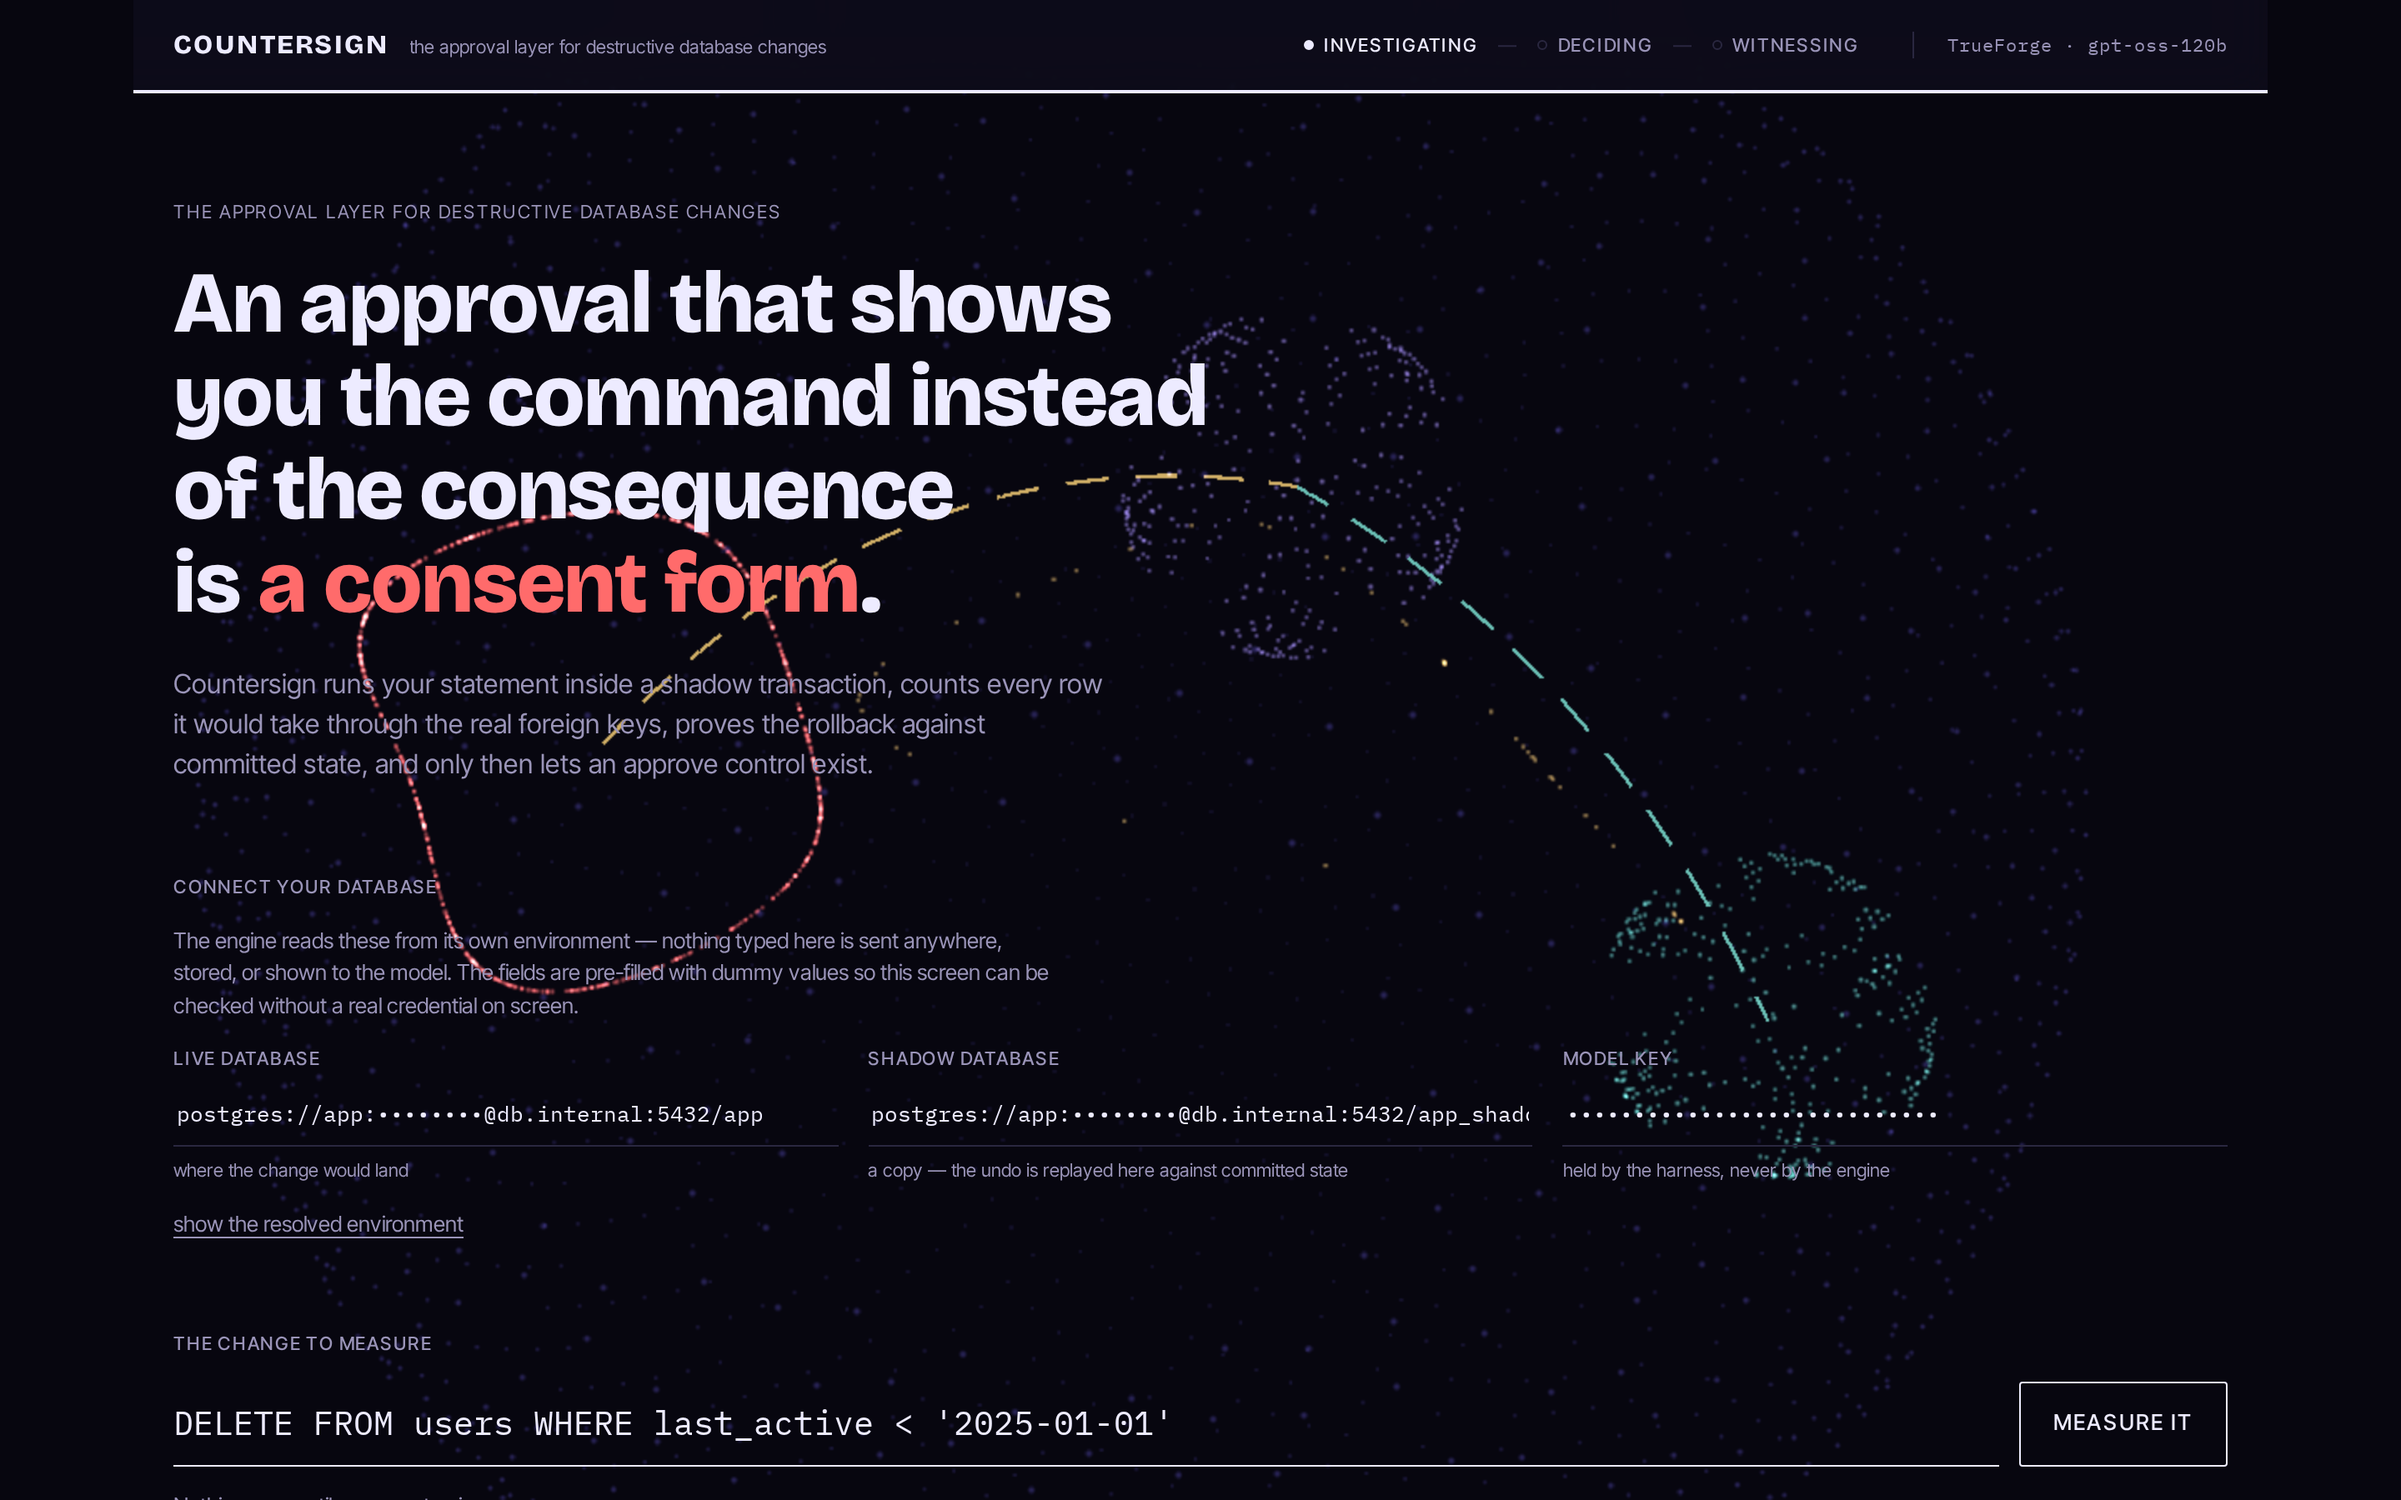
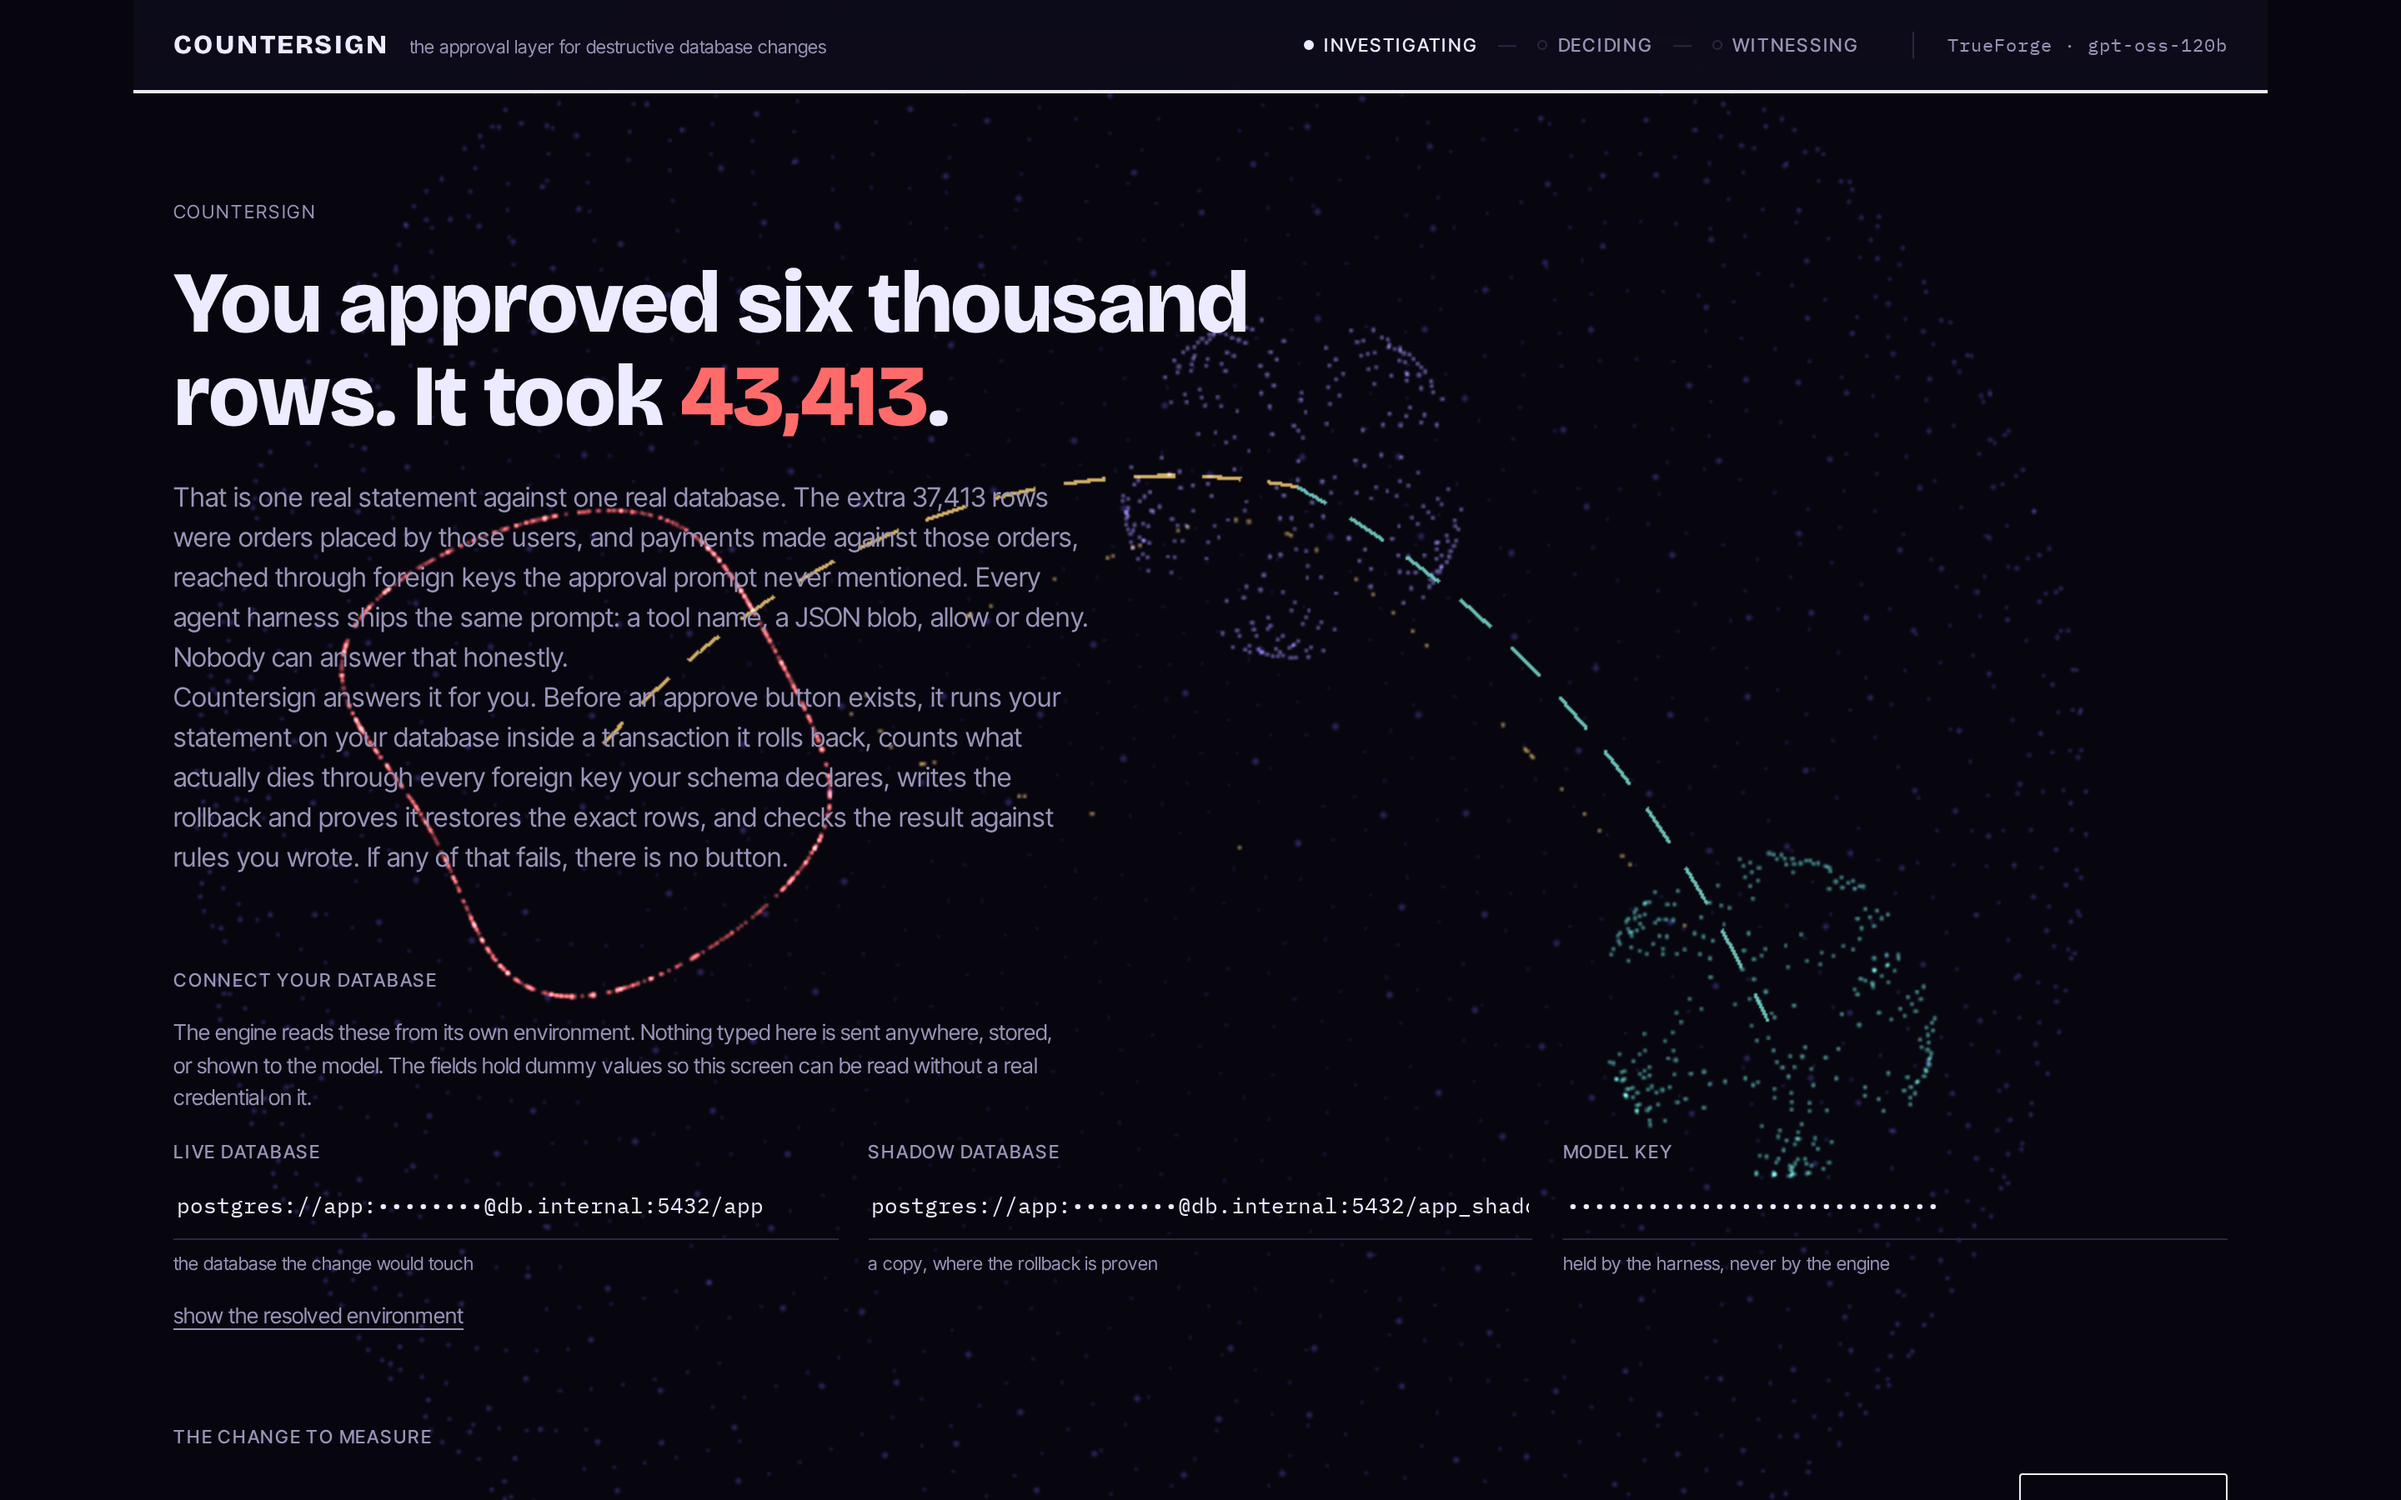
Say what it does with numbers, and drop the dashes
The description was abstract where it should have been specific. It named
mechanisms without ever showing what they cost: "counts every row it would
take" is a claim about a capability, not a fact anyone can weigh.

It now opens on the measured case. You approved six thousand rows and it took
43,413; the extra 37,413 were orders placed by those users and payments made
against those orders, reached through foreign keys the approval prompt never
mentioned. Those are the recorded numbers, not an illustration. The four
claims underneath follow the same rule: twelve of six thousand rows failing to
return, a two minute signature, a WHERE clause that matches a new row while
you read.

Every em dash is gone from the rendered copy, checked against the DOM rather
than the source.

Also removes Ledger and Preconditions, which the section replaced and nothing
imported, and the stray root logs.

diff --git a/console/src/shell/Landing.tsx b/console/src/shell/Landing.tsx
@@ -33,44 +33,51 @@ export function Landing({ onEnter, demo = false }: Props) {
     <main className="landing">
       {demo && (
         <p className="demo-banner">
-          <b>Demo.</b> This deployment replays a recorded run of the real agent — the same
-          event stream through the same reducer, holding at the approval TrueForge actually
-          raised. It is not connected to a database. To run it against your own, see the
-          repository.
+          <b>Demo.</b> This deployment replays a recorded run of the real agent: the same event
+          stream, through the same code, holding at the approval the harness actually raised. It is
+          not connected to a database. To run it against yours, see the repository.
         </p>
       )}
       <section className="landing-claim">
-        <p className="landing-eyebrow">The approval layer for destructive database changes</p>
+        <p className="landing-eyebrow">Countersign</p>
         <h1>
-          An approval that shows you the command instead of the consequence
-          is <em>a consent form</em>.
+          You approved six thousand rows.
+          It took <em>43,413</em>.
         </h1>
         <p className="landing-stand">
-          Countersign runs your statement inside a shadow transaction, counts every row it would
-          take through the real foreign keys, proves the rollback against committed state, and only
-          then lets an approve control exist.
+          That is one real statement against one real database. The extra 37,413 rows were orders
+          placed by those users, and payments made against those orders, reached through foreign
+          keys the approval prompt never mentioned. Every agent harness ships the same prompt: a
+          tool name, a JSON blob, allow or deny. Nobody can answer that honestly.
+        </p>
+        <p className="landing-stand">
+          Countersign answers it for you. Before an approve button exists, it runs your statement
+          on your database inside a transaction it rolls back, counts what actually dies through
+          every foreign key your schema declares, writes the rollback and proves it restores the
+          exact rows, and checks the result against rules you wrote. If any of that fails, there is
+          no button.
         </p>
       </section>
 
       <section className="landing-connect">
         <h2 className="t-label">Connect your database</h2>
         <p className="landing-note">
-          The engine reads these from its own environment — nothing typed here is sent anywhere,
-          stored, or shown to the model. The fields are pre-filled with dummy values, so this screen
-          can be read without a real credential on it{demo ? ', and this deployment has no engine to configure' : ''}.
+          The engine reads these from its own environment. Nothing typed here is sent anywhere,
+          stored, or shown to the model. The fields hold dummy values so this screen can be read
+          without a real credential on it{demo ? ', and this deployment has no engine to configure' : ''}.
         </p>
 
         <div className="connect-grid">
           <label className="connect-field">
             <span className="t-label">Live database</span>
             <input className="t-data" value={live} onChange={(e) => setLive(e.target.value)} spellCheck={false} />
-            <span className="connect-hint">where the change would land</span>
+            <span className="connect-hint">the database the change would touch</span>
           </label>
 
           <label className="connect-field">
             <span className="t-label">Shadow database</span>
             <input className="t-data" value={shadow} onChange={(e) => setShadow(e.target.value)} spellCheck={false} />
-            <span className="connect-hint">a copy — the undo is replayed here against committed state</span>
+            <span className="connect-hint">a copy, where the rollback is proven</span>
           </label>
 
           <label className="connect-field">
@@ -118,44 +125,46 @@ export function Landing({ onEnter, demo = false }: Props) {
         <h2 className="t-label">What it does</h2>
         <div className="about-grid">
           <div>
-            <h3>It measures instead of estimating</h3>
+            <h3>It measures, it does not estimate</h3>
             <p>
-              The statement runs for real inside <span className="t-data">BEGIN … ROLLBACK</span> on
-              your database. Per-table counts come from the executed plan, walked through every
-              foreign key the schema actually declares, each edge labelled with its real
-              <span className="t-data"> ON DELETE</span> semantics. Nothing is predicted.
+              Your statement runs for real inside <span className="t-data">BEGIN … ROLLBACK</span>.
+              The per table counts come from what the database actually did, walked through every
+              foreign key your schema declares, each one labelled <span className="t-data">CASCADE</span>,
+              <span className="t-data"> SET NULL</span> or <span className="t-data">RESTRICT</span>.
+              Nothing here is a guess about what might happen.
             </p>
           </div>
           <div>
-            <h3>It proves the undo before the commit</h3>
+            <h3>It proves the undo before you commit</h3>
             <p>
-              The rollback is generated from pre-image snapshots, then tested like code: the change
-              is applied to a shadow copy and committed, the undo runs against that committed state,
-              and the exact primary keys have to come back. If they do not, the console says so and
-              no approve control appears.
+              The rollback is built from snapshots of the rows before they change, then tested like
+              code. On a copy of your database, the change is applied and committed, the rollback
+              runs against that committed state, and the exact primary keys have to come back. If
+              twelve of six thousand fail to return, the screen says so and no button appears.
             </p>
           </div>
           <div>
             <h3>Code decides, not the model</h3>
             <p>
-              A deterministic rules engine reads the measurement and returns pass or fail — row
-              limits, protected tables, undo verification. There is no model anywhere in the verdict
-              path. The agent proposes; only code blesses.
+              Your rules are a short file: how many rows may die, which tables must never lose any,
+              whether a verified rollback is required. A deterministic engine reads the measurement
+              and returns pass or fail. No model sits anywhere in that path. The agent proposes and
+              only code approves.
             </p>
           </div>
           <div>
-            <h3>The approval is a fingerprint, not a click</h3>
+            <h3>You sign specific rows, not a command</h3>
             <p>
               What you countersign is a hash of the exact rows you were shown, and the commit deletes
-              by that key list alone. Rows that started matching after the measurement void the
-              approval instead of dying with it. It expires, because a count you read two minutes ago
-              is not a count.
+              by that key list alone. A row that started matching your <span className="t-data">WHERE</span>
+              clause while you were reading voids the approval instead of dying with it. The signature
+              expires after two minutes, because a count you read two minutes ago is not a count.
             </p>
           </div>
         </div>
         <p className="landing-note">
           Your database credentials stay in the engine process. The model receives measurements and a
-          one-shot token — never a connection string.
+          single use token. It never sees a connection string.
         </p>
       </section>
     </main>

diff --git a/console/src/dossier/Section.tsx b/console/src/dossier/Section.tsx
@@ -38,7 +38,7 @@ export function Section({ sim }: { sim: Simulation }) {
 
   return (
     <section className="section-draw" aria-label="Blast radius by foreign-key depth">
-      <h2 className="t-label">Section — blast radius by foreign-key depth</h2>
+      <h2 className="t-label">Blast radius by foreign key depth</h2>
 
       <div className="grade">
         <span className="grade-lbl t-data">grade · the table you named</span>
@@ -125,7 +125,7 @@ export function Revisions({ sim }: { sim: Simulation }) {
       label: sim.policy?.verdict === 'PASS' ? 'Policy passed' : 'Policy failed',
       meas: sim.policy?.verdict === 'PASS'
         ? `${sim.policy.rules.length} rules, 0 blocking`
-        : failing ? `${failing.rule} — ${failing.detail}` : 'not evaluated',
+        : failing ? `${failing.rule}: ${failing.detail}` : 'not evaluated',
     },
   ]
 
